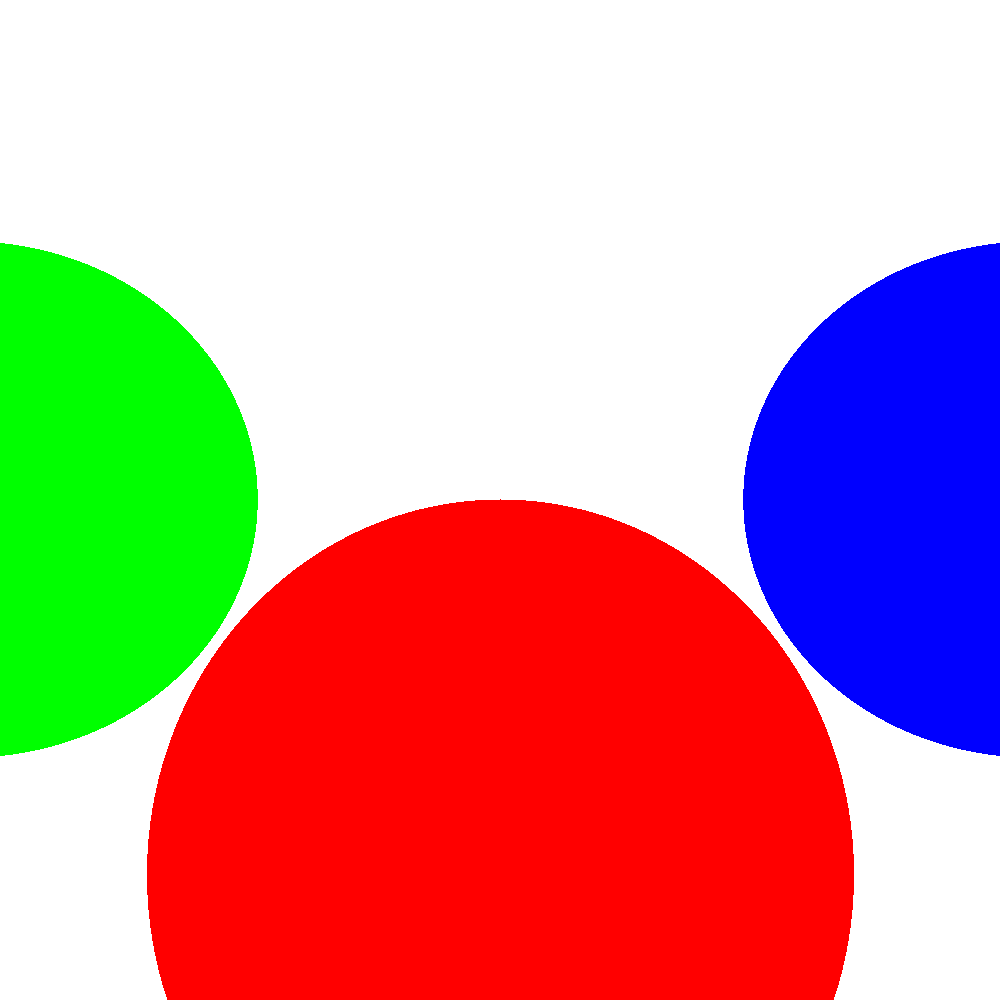
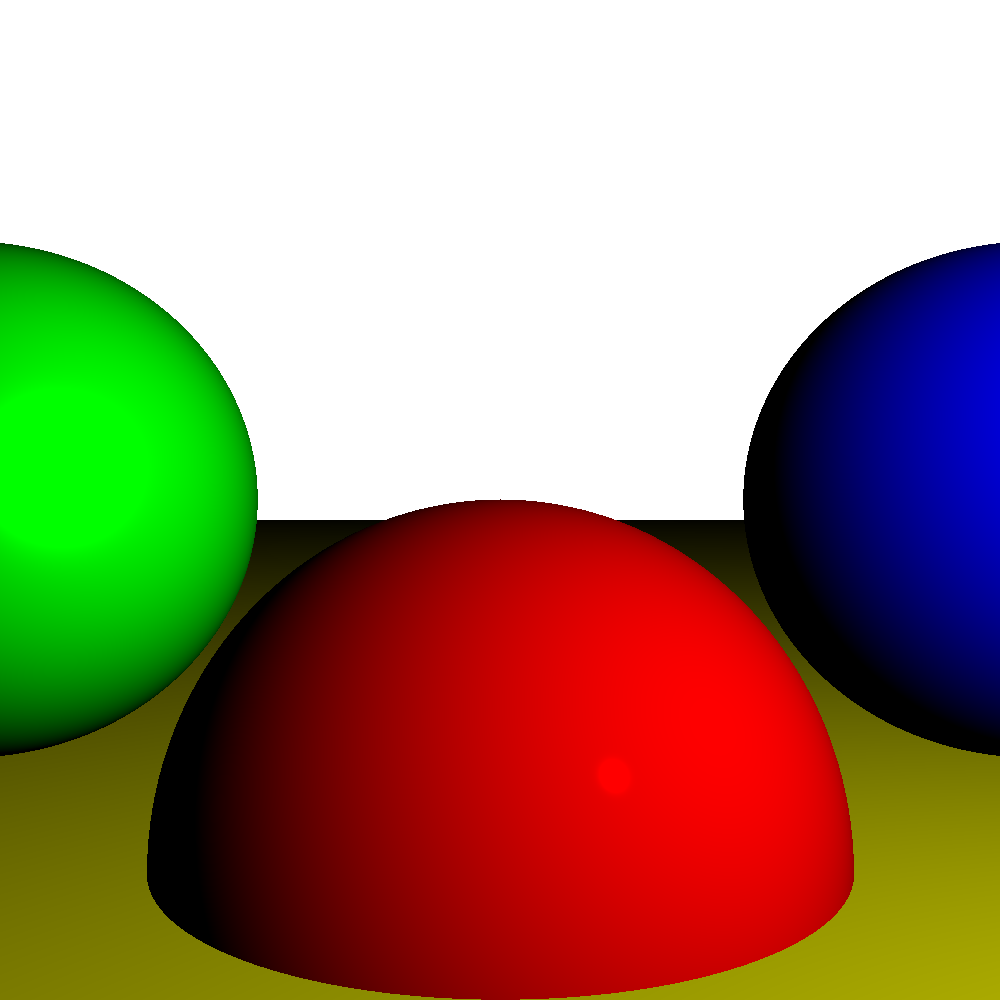
implemented diffuse and specular light rendering

diff --git a/main.go b/main.go
@@ -2,6 +2,7 @@ package main
 
 import (
 	"graphics/core"
+	"graphics/effects"
 	"graphics/geometry"
 	"image/color"
 	"math"
@@ -10,28 +11,44 @@ import (
 var w, h = 1000, 1000
 
 var sphere1 = geometry.Sphere{
-	Center: geometry.Point{X: 0, Y: -1, Z: 3},
-	Radius: 1,
-	Color:  color.RGBA{R: 255, G: 0, B: 0, A: 0xff},
+	Center:   geometry.Point{X: 0, Y: -1, Z: 3},
+	Radius:   1,
+	Color:    color.RGBA{R: 255, G: 0, B: 0, A: 0xff},
+	Specular: 500,
 }
 
 var sphere2 = geometry.Sphere{
-	Center: geometry.Point{X: 2, Y: 0, Z: 4},
-	Radius: 1,
-	Color:  color.RGBA{R: 0, G: 0, B: 255, A: 0xff},
+	Center:   geometry.Point{X: 2, Y: 0, Z: 4},
+	Radius:   1,
+	Color:    color.RGBA{R: 0, G: 0, B: 255, A: 0xff},
+	Specular: 500,
 }
 
 var sphere3 = geometry.Sphere{
-	Center: geometry.Point{X: -2, Y: 0, Z: 4},
-	Radius: 1,
-	Color:  color.RGBA{R: 0, G: 255, B: 0, A: 0xff},
+	Center:   geometry.Point{X: -2, Y: 0, Z: 4},
+	Radius:   1,
+	Color:    color.RGBA{R: 0, G: 255, B: 0, A: 0xff},
+	Specular: 10,
+}
+
+var sphere4 = geometry.Sphere{
+	Center:   geometry.Point{X: 0, Y: -5001, Z: 0},
+	Radius:   5000,
+	Color:    color.RGBA{R: 255, G: 255, B: 0, A: 0xff},
+	Specular: 1000,
+}
+
+var light1 = effects.PointLight{
+	Intensity: 0.6,
+	Center:    geometry.Point{X: 2, Y: 1, Z: 0},
 }
 
 var s = core.Scene{
 	BackgroundColor: color.RGBA{R: 255, G: 255, B: 255, A: 0xff},
 	W:               w,
 	H:               h,
-	Objects:         []core.Element{sphere1, sphere2, sphere3},
+	Objects:         []core.Element{sphere1, sphere2, sphere3, sphere4},
+	Lights:          []core.Light{light1},
 }
 
 func main() {
@@ -42,8 +59,8 @@ func main() {
 		for y := 0; y < s.H; y++ {
 			D := c.ToViewport(int(x-c.W/2), int(y-c.H/2))
 			r := core.Ray{O: O, V: D}
-			color := r.Trace(s, 1, math.Inf(1))
-			c.ColorMap[x][y] = color
+			col := r.Trace(s, 1, math.Inf(1))
+			c.ColorMap[x][y] = col
 		}
 	}
 	c.Render("image.png")

diff --git a/effects/lights.go b/effects/lights.go
@@ -1,0 +1,36 @@
+package effects
+
+import (
+	"graphics/geometry"
+	"math"
+)
+
+type AmbientLight struct {
+	Intensity float64
+}
+
+func (l AmbientLight) ComputeLight(p geometry.Point, n geometry.Point) float64 {
+	return l.Intensity
+}
+
+type PointLight struct {
+	Intensity float64
+	Center    geometry.Point
+}
+
+func (l PointLight) ComputeLight(p geometry.Point, n geometry.Point, v geometry.Point, s float64) float64 {
+	// diffuse light
+	lightDirection := geometry.Normalize(l.Center.Diff(p))
+	nDirection := geometry.Normalize(n)
+	factor := math.Max(0, nDirection.Dot(lightDirection))
+
+	// specular light
+	if s != -1 {
+		r := geometry.Scale(nDirection, 2*nDirection.Dot(lightDirection)).Diff(lightDirection)
+		specularFactor := r.Dot(v)
+		if specularFactor > 0 {
+			factor += l.Intensity * math.Pow(specularFactor, s)
+		}
+	}
+	return factor
+}

diff --git a/core/ray.go b/core/ray.go
@@ -35,8 +35,28 @@ func (r Ray) Trace(s Scene, tMin float64, tMax float64) color.RGBA {
 		}
 	}
 	// fmt.Print("\n")
+	var col color.RGBA
 	if closestElt == nil {
-		return s.BackgroundColor
+		col = s.BackgroundColor
+	} else {
+		col = closestElt.GetColor()
+		p := r.pos(closestT)
+
+		i := 0.0
+		for _, light := range s.Lights {
+			i += light.ComputeLight(
+				p,
+				closestElt.GetNormal(p),
+				geometry.Scale(geometry.Normalize(r.V), -1),
+				closestElt.GetSpecular(),
+			)
+		}
+
+		i = math.Min(i, 1)
+		col.R = uint8(float64(col.R) * i)
+		col.G = uint8(float64(col.G) * i)
+		col.B = uint8(float64(col.B) * i)
 	}
-	return closestElt.GetColor()
+
+	return col
 }

diff --git a/geometry/objects.go b/geometry/objects.go
@@ -6,9 +6,10 @@ import (
 )
 
 type Sphere struct {
-	Center Point
-	Radius float64
-	Color  color.RGBA
+	Center   Point
+	Radius   float64
+	Color    color.RGBA
+	Specular float64
 }
 
 func (s Sphere) Intersect(o Point, d Point) (float64, float64) {
@@ -29,4 +30,12 @@ func (s Sphere) Intersect(o Point, d Point) (float64, float64) {
 
 func (s Sphere) GetColor() color.RGBA {
 	return s.Color
+}
+
+func (s Sphere) GetSpecular() float64 {
+	return s.Specular
+}
+
+func (s Sphere) GetNormal(p Point) Point {
+	return Normalize(p.Diff(s.Center))
 }

diff --git a/core/scene.go b/core/scene.go
@@ -6,13 +6,20 @@ import (
 )
 
 type Element interface {
-	Intersect(o geometry.Point, d geometry.Point) (float64, float64)
+	Intersect(geometry.Point, geometry.Point) (float64, float64)
 	GetColor() color.RGBA
+	GetNormal(geometry.Point) geometry.Point
+	GetSpecular() float64
+}
+
+type Light interface {
+	ComputeLight(geometry.Point, geometry.Point, geometry.Point, float64) float64
 }
 
 type Scene struct {
 	Objects         []Element
 	BackgroundColor color.RGBA
+	Lights          []Light
 	W               int
 	H               int
 }

diff --git a/geometry/points.go b/geometry/points.go
@@ -35,3 +35,22 @@ func Dist(p1 Point, p2 Point) float64 {
 	dz := math.Pow(p1.Z-p2.Z, 2)
 	return math.Sqrt(dx + dy + dz)
 }
+
+func Norm(p Point) float64 {
+	return Dist(p, Point{0, 0, 0})
+}
+
+func Scale(p Point, a float64) Point {
+	return Point{
+		X: p.X * a,
+		Y: p.Y * a,
+		Z: p.Z * a,
+	}
+}
+
+func Normalize(p Point) Point {
+	if Norm(p) > 0 {
+		return Scale(p, 1/Norm(p))
+	}
+	return p
+}
